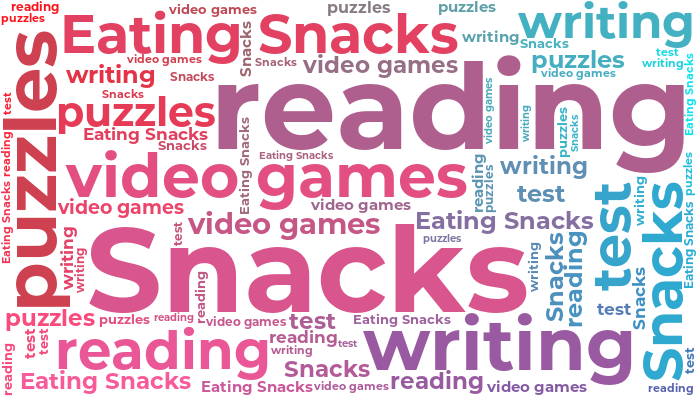
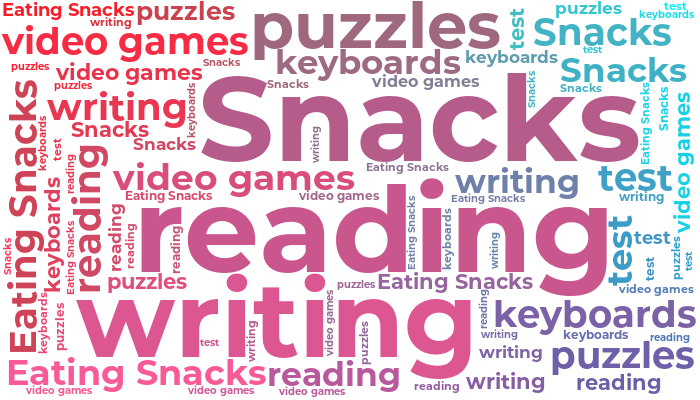
Update Wordcloud

diff --git a/README.md b/README.md
@@ -11,7 +11,7 @@ Welcome to my profile! I'm a student, aspiring writer, part-time coder and full-
 
 ## Join my community word cloud 🔡 💭
 
-![](https://img.shields.io/badge/Words%20Added-3-brightgreen?labelColor=7D898B)
+![](https://img.shields.io/badge/Words%20Added-5-brightgreen?labelColor=7D898B)
 ![](https://img.shields.io/badge/Word%20Clouds%20Created-1-blue?labelColor=7D898B)
 ![](https://img.shields.io/badge/Total%20Contributors-1-orange?labelColor=7D898B)
 
@@ -28,7 +28,7 @@ The *Word Cloud* will automatically update when you add your own word 😊 The p
 
   &nbsp;
 
-  ![Monthly Words Badge](https://img.shields.io/badge/Words%20in%20this%20Cloud-3-darkblue?labelColor=7D898B)
+  ![Monthly Words Badge](https://img.shields.io/badge/Words%20in%20this%20Cloud-5-darkblue?labelColor=7D898B)
   ![Monthly Contributors Badge](https://img.shields.io/badge/Contributors%20this%20Cloud-1-orange?labelColor=7D898B)
   [![Github Badge](https://img.shields.io/badge/-@username-24292e?style=flat&logo=Github&logoColor=white&link=https://github.com/username)](https://github.com/username)
   [![Github Badge](https://img.shields.io/badge/-@username-24292e?style=flat&logo=Github&logoColor=white&link=https://github.com/username)](https://github.com/username)
